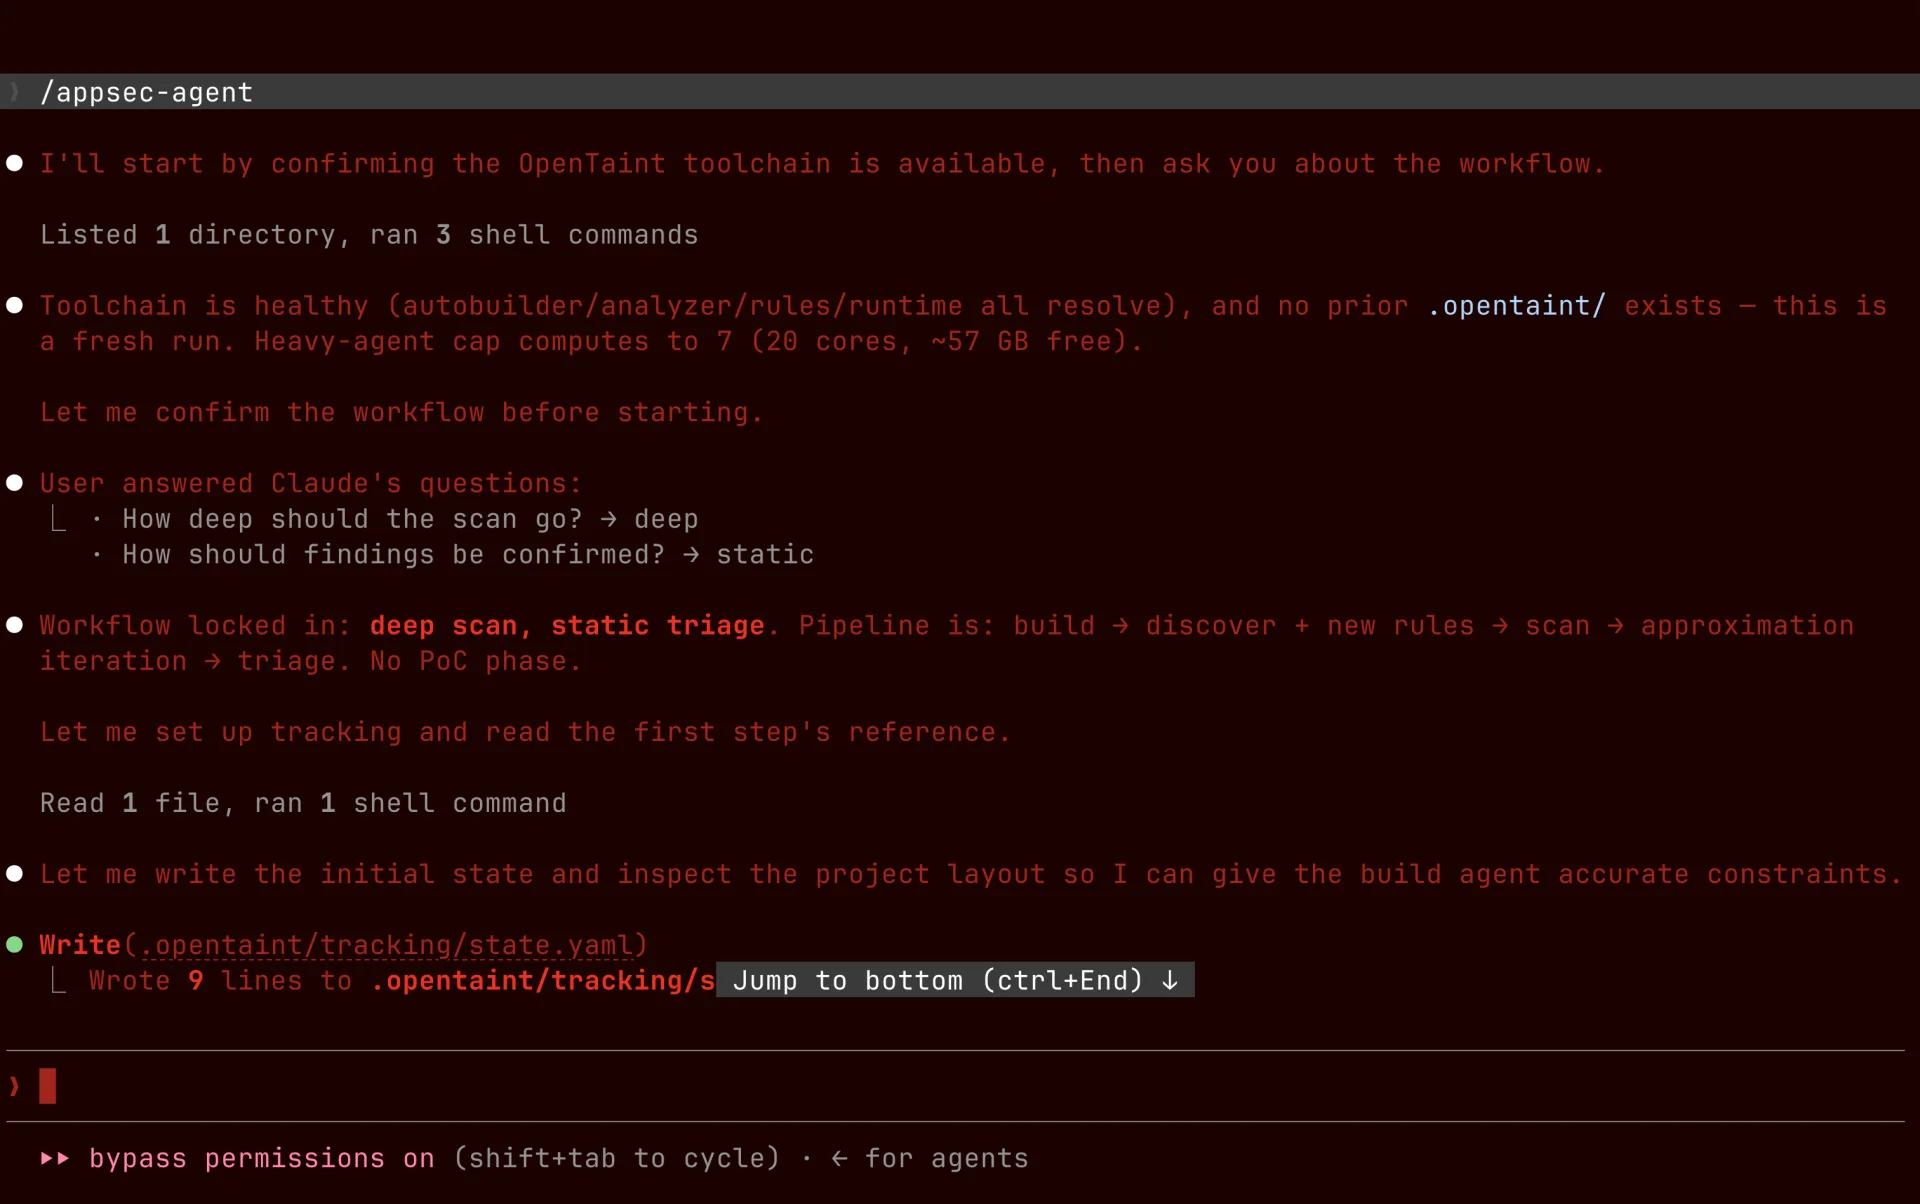
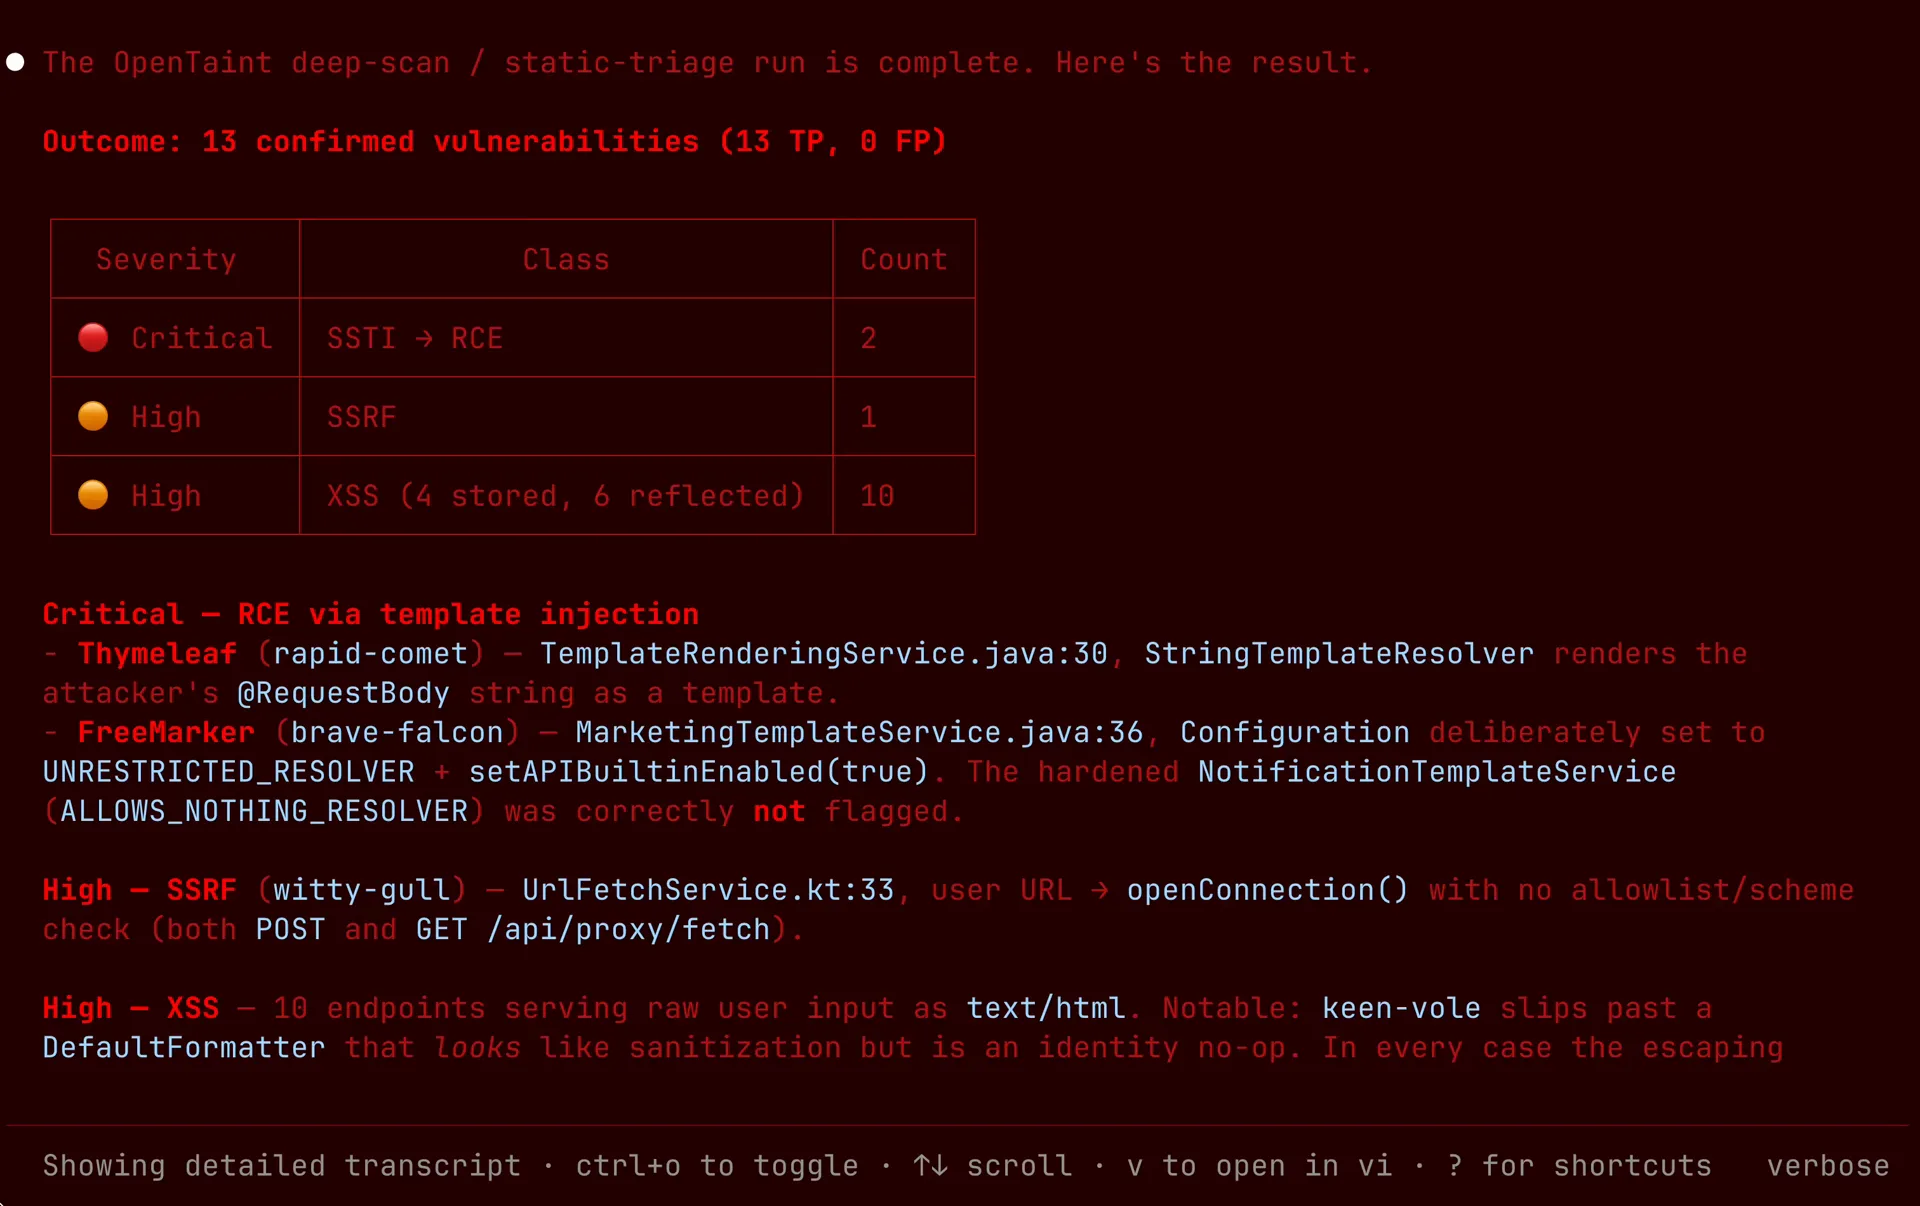
fix(landing): derive agent posters from demo videos

diff --git a/src/components/__tests__/demo-slides.test.ts b/src/components/__tests__/demo-slides.test.ts
@@ -26,7 +26,7 @@ describe("DEMO_SLIDES", () => {
     });
   });
 
-  it("maps the agent video and its screenshot poster by page theme", () => {
+  it("maps the agent video and its first-frame poster by page theme", () => {
     const agent = DEMO_SLIDES.find((s) => s.id === "agent");
     expect(agent?.kind).toBe("video");
     expect(agent?.sources).toEqual({ light: "/agent-video-light.mp4", dark: "/agent-video-dark.mp4" });
